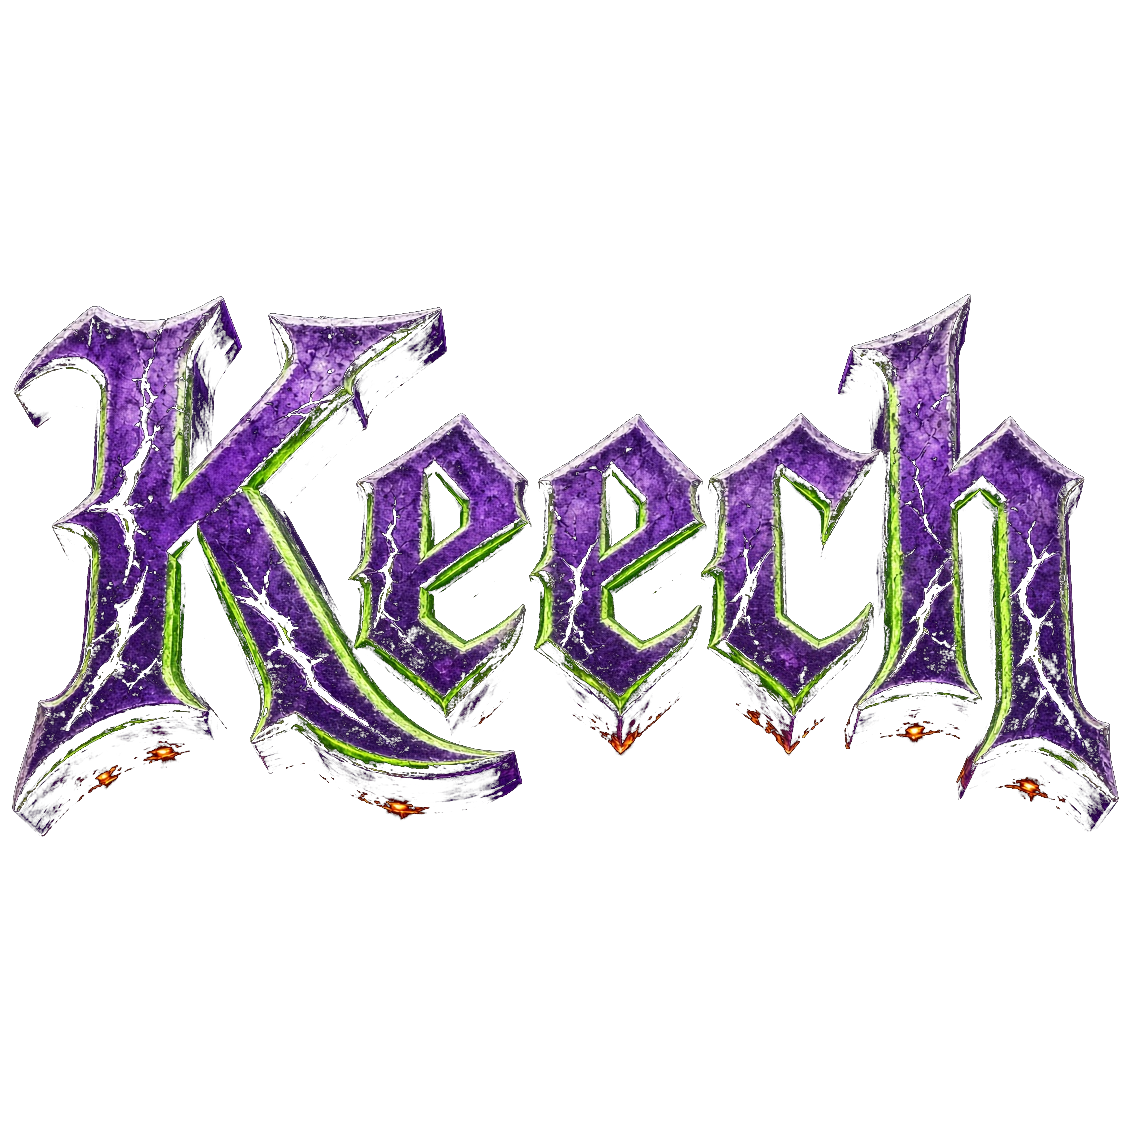
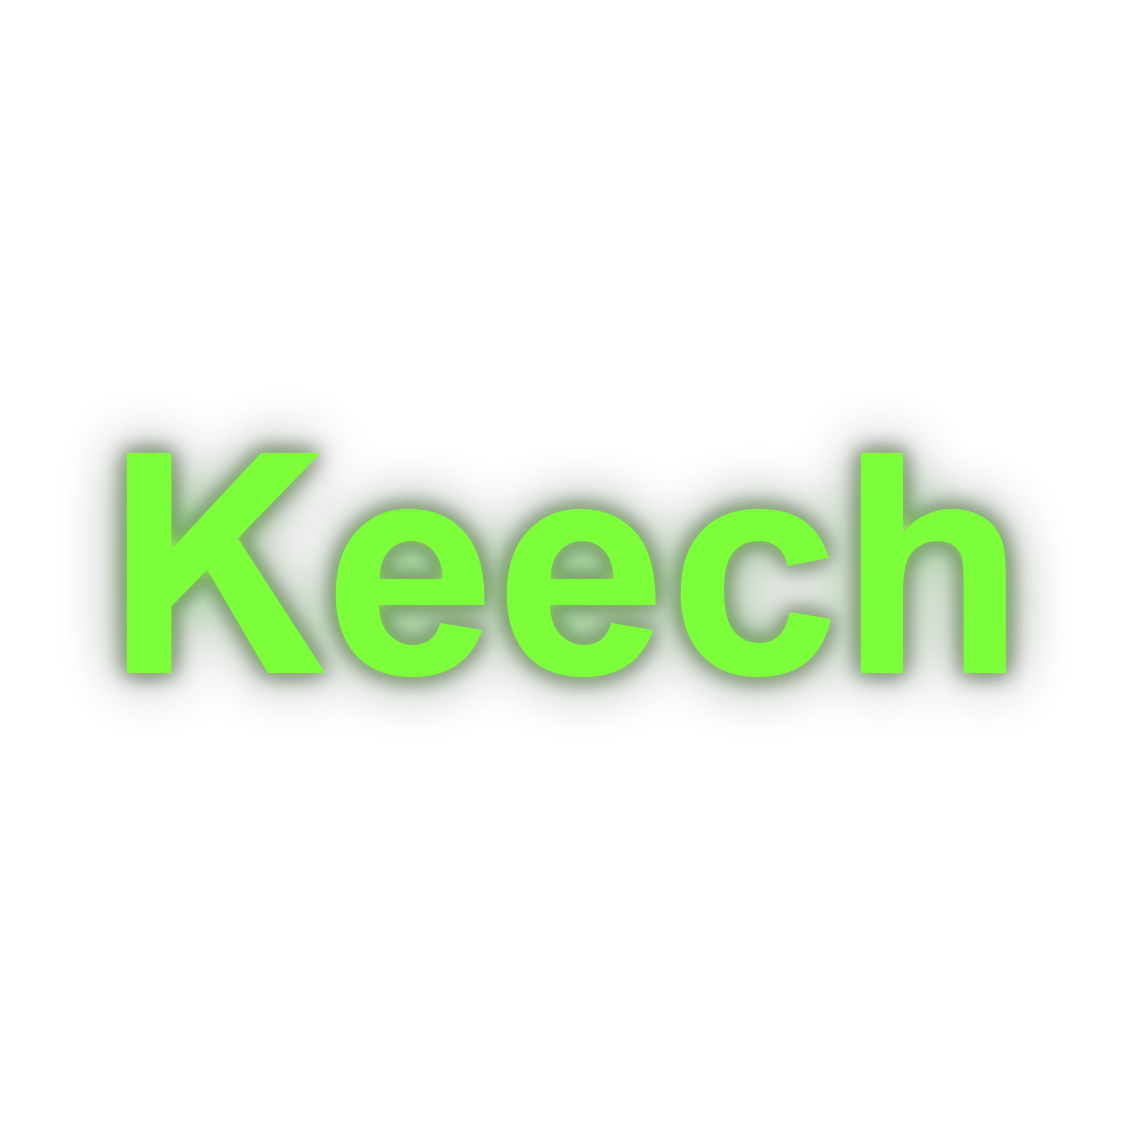
Update Halloween BP nick reward art to flat bright neon.
Match live #7CFF3A nick style on cutout and preview; cache-bust assets.

Changed region(s): [[0.0, 0.2476, 0.9903, 0.7427]]

diff --git a/src/lib/battlePassSeason2.ts b/src/lib/battlePassSeason2.ts
@@ -235,7 +235,7 @@ export const BP_S2_REWARDS: BpReward[] = [
     preview:
       "Яркий неоново-зелёный ник — плоские чёткие буквы",
     hover: "Неоновая жатва · ур. 15 Season 2 Halloween",
-    image: "/bp-halloween/nick-v2.jpg",
+    image: "/bp-halloween/nick-v2.jpg?v=neon1",
   },
   {
     level: 20,
@@ -273,7 +273,7 @@ export function s2RewardFullImage(reward: BpReward): string {
   if (reward.id === "hw2-knife") return "/bp-halloween/knife-hook-v2-cutout.png?v=blood1";
   if (reward.id === "hw2-gun") return "/bp-halloween/weapon-ak-v2-cutout.png?v=blood1";
   if (reward.id === "hw2-trophy") return "/bp-halloween/pomegranate-relic-v1-cutout.png?v=3";
-  if (reward.id === "hw2-nick") return "/bp-halloween/nick-v2-cutout.png";
+  if (reward.id === "hw2-nick") return "/bp-halloween/nick-v2-cutout.png?v=neon1";
   return reward.image || BP_S2_IDLE_ART;
 }
 
@@ -286,7 +286,7 @@ export function s2RewardMileImage(reward: BpReward): string {
   if (reward.id === "hw2-knife") return "/bp-halloween/knife-hook-v2-cutout.png?v=blood1";
   if (reward.id === "hw2-gun") return "/bp-halloween/weapon-ak-v2-cutout.png?v=blood1";
   if (reward.id === "hw2-trophy") return "/bp-halloween/pomegranate-relic-v1-cutout.png?v=3";
-  if (reward.id === "hw2-nick") return "/bp-halloween/nick-v2-cutout.png";
+  if (reward.id === "hw2-nick") return "/bp-halloween/nick-v2-cutout.png?v=neon1";
   return reward.image || BP_S2_IDLE_ART;
 }
 

diff --git a/docs/CHANGELOG.md b/docs/CHANGELOG.md
@@ -1,3 +1,9 @@
+## v. 1.2.124 — 03.11.2026 · BP: арт ника «Неоновая жатва»
+
+Превью и иконка награды в Battle Pass — яркий плоский неон #7CFF3A, как живой ник.
+
+---
+
 ## v. 1.2.123 — 03.11.2026 · «Неоновая жатва»: плоский яркий неон
 
 Без объёма — кислотно-зелёный #7CFF3A, чёткие буквы и лёгкое свечение.
